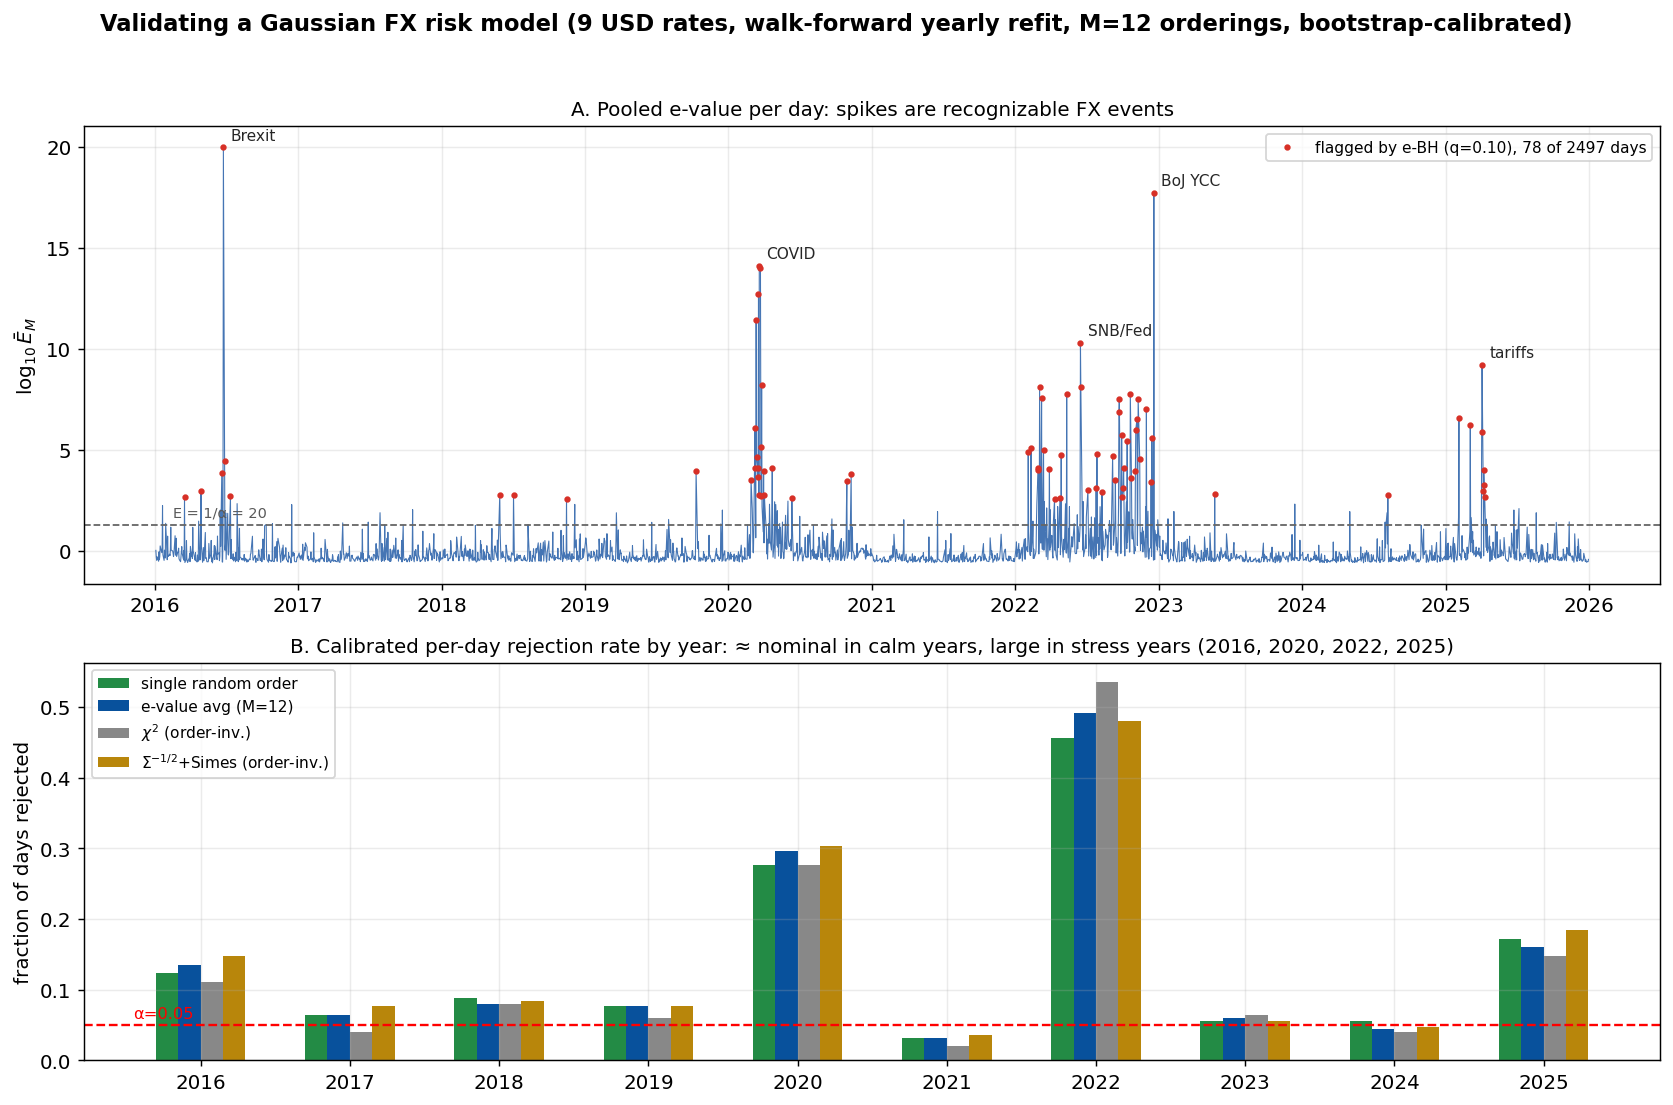
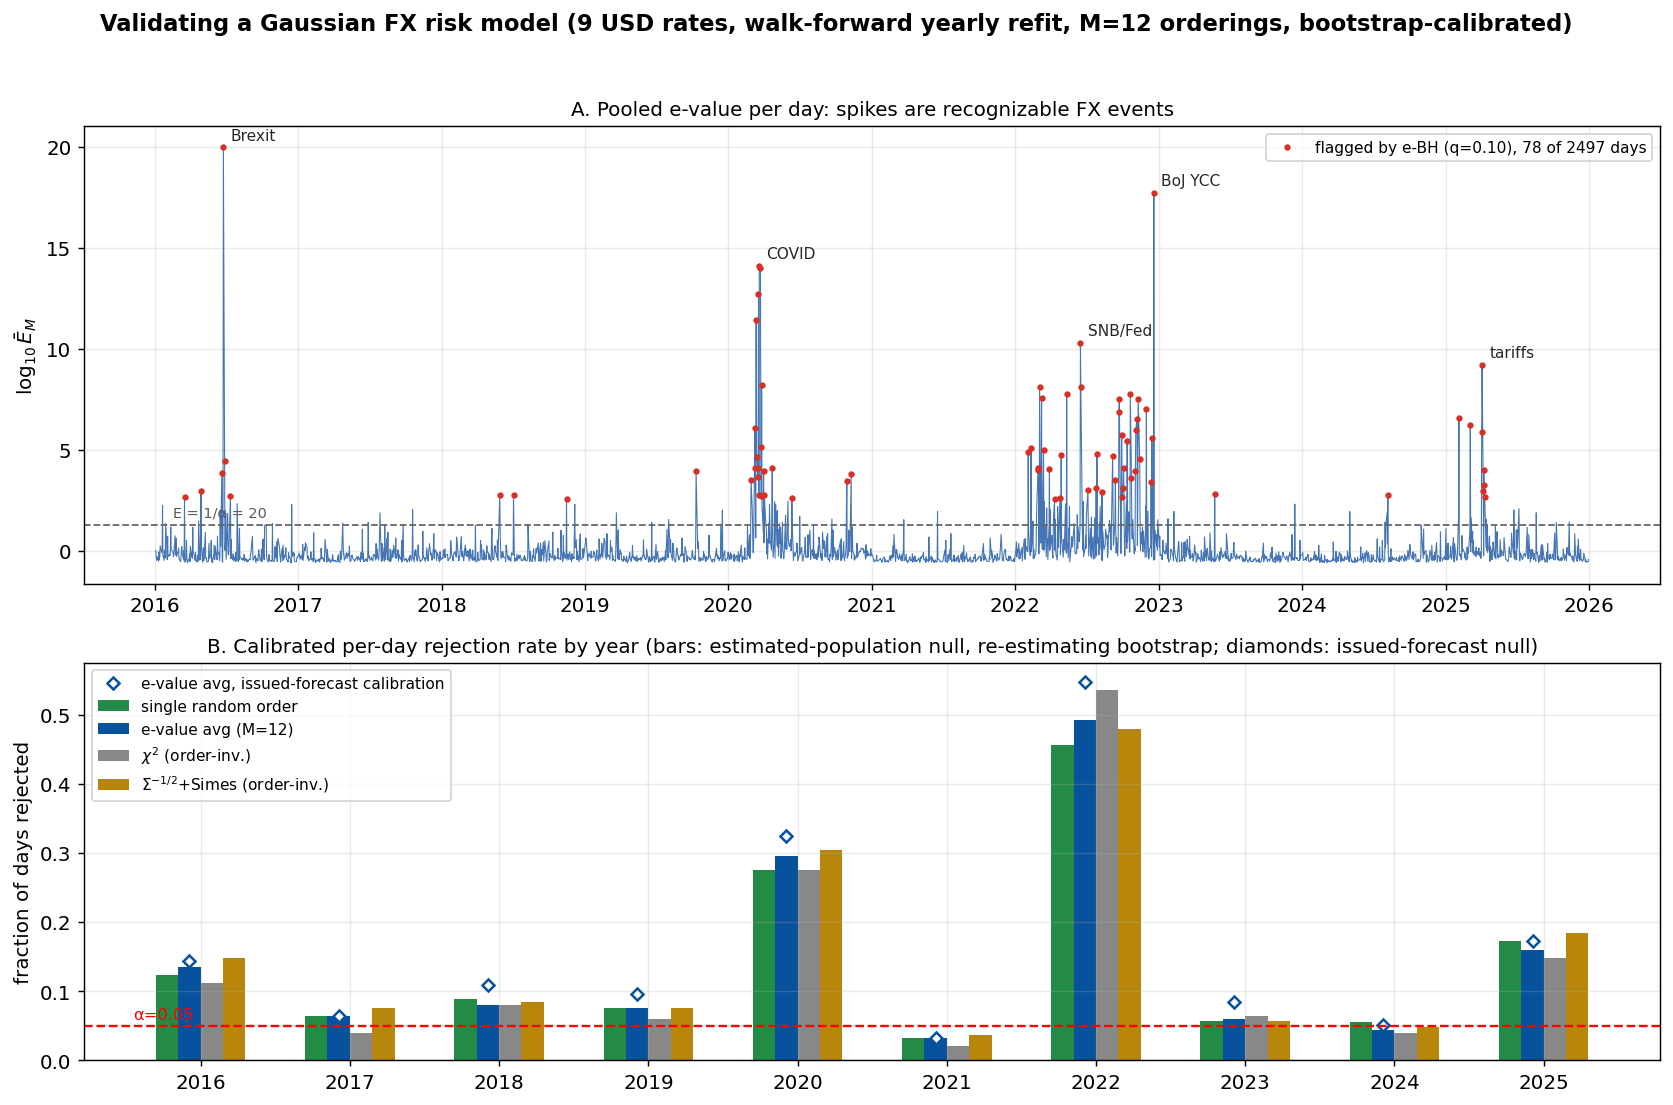
astra's fix

diff --git a/code/app_fx_risk_model.py b/code/app_fx_risk_model.py
@@ -23,6 +23,16 @@ v2 (review credit: GPT Astra):
     as in the real pipeline (previously only the covariance was re-estimated);
   - the day-level paired-gap standard error uses a Newey-West (Bartlett) estimator to account
     for serial dependence.
+v3 (review credit: GPT Astra, round 2):
+  - TWO calibration targets are now run and stored separately, because they are different nulls
+    and need different simulations:
+      (a) ESTIMATED-POPULATION null (rows, gap_*): the re-estimating bootstrap above, i.e.
+          Procedure 1 with mean and covariance re-estimated inside every replicate;
+      (b) ISSUED-FORECAST null H0,t: X_t | F_{t-1} ~ N(mu_hat_t, Sigma_hat_t) (rows_fc, gap_fc_*):
+          the parameters are FIXED at the issued values, so the calibration vectors are drawn
+          from N(mu_hat, Sigma_hat) and evaluated with the same fixed whitening as the observed
+          days (exact Monte-Carlo null; no re-estimation).
+  - merger summaries used for calibration are uncapped (mean and min of per-order p-values).
 """
 import glob
 import numpy as np
@@ -30,6 +40,8 @@ from scipy import stats
 from scipy.special import logsumexp
 
 rng = np.random.default_rng(20260715)
+rng_fc = np.random.default_rng(20260924)   # separate stream for the forecast-null calibration (v3),
+                                            # so the estimated-population run reproduces the earlier one
 ALPHA, Q_EBH = 0.05, 0.10
 M, B = 12, 999
 TAUS = np.array([1.0, 2.0, 3.0])
@@ -76,8 +88,8 @@ def simes2(Z):
     return (n * np.sort(p2, axis=-1) / idx).min(-1)
 
 
-def rand_perms(k, m):
-    return np.argsort(rng.random((k, m, n)), axis=-1)
+def rand_perms(k, m, gen=None):
+    return np.argsort((gen or rng).random((k, m, n)), axis=-1)
 
 
 def order_stats(Z):
@@ -86,15 +98,15 @@ def order_stats(Z):
     terms = np.stack([-0.5 * t * t + logcosh(t * Z) for t in TAUS])
     logE = logsumexp(terms, axis=(0, -1)) - (np.log(n) + np.log(len(TAUS)))
     return dict(single=Ps[..., 0],
-                pmerge=np.minimum(2 * Ps.mean(-1), 1.0),
-                bonf=np.minimum(M * Ps.min(-1), 1.0),
+                pmerge=2 * Ps.mean(-1),      # uncapped merger summaries (v3): the capped
+                bonf=M * Ps.min(-1),         # p-values min{1,.} are for reporting only
                 eavg=logsumexp(logE, -1) - np.log(M))          # log e-value
 
 
-def all_stats(V, Linv, Sinv, W):
+def all_stats(V, Linv, Sinv, W, gen=None):
     """V: (k, n) centered vectors; Linv: (n,n) chol-inverse of Sigma_hat (identity ordering);
     fresh M orderings per row. Exchangeability does NOT hold here, so permute Sigma too."""
-    P = rand_perms(V.shape[0], M)                              # (k,M,n)
+    P = rand_perms(V.shape[0], M, gen)                         # (k,M,n)
     st = {}
     # per-row, per-ordering cholesky of permuted Sigma_hat: batch over unique perms is
     # overkill at k<=260, M=12 -> loop days in chunks
@@ -135,6 +147,15 @@ def calibrate(Shat, Ntr):
     return {k: np.sort(v) for k, v in boot.items()}
 
 
+def calibrate_forecast(Shat, Linv, Sinv, W):
+    """Issued-forecast null: parameters fixed at the issued (mu_hat, Sigma_hat); the calibration
+    vectors are exact draws from the null, centred exactly, and whitened by the SAME fixed
+    Sigma_hat as the observed days. Returns sorted statistics."""
+    Vc = rng_fc.standard_normal((B, n)) @ np.linalg.cholesky(Shat).T
+    boot = all_stats(Vc, Linv, Sinv, W, gen=rng_fc)
+    return {k: np.sort(v) for k, v in boot.items()}
+
+
 def mc_low(sorted_boot, obs):
     return 1 + np.searchsorted(sorted_boot, obs, side='right') <= ALPHA * (B + 1)
 
@@ -146,6 +167,7 @@ def mc_high(sorted_boot, obs):
 # ---------------- run per year ----------------
 KEYS = ["single", "pmerge", "bonf", "eavg", "chi2", "sym"]
 rows, gaps, logE_all, dates_all, rej_flags = [], [], [], [], []
+rows_fc, gaps_fc = [], []                            # issued-forecast calibration
 for y in range(2016, 2026):
     tr = ret[years == y - 1]; te = ret[years == y]
     dte = [t for t, yy in zip(rdates, years) if yy == y]
@@ -164,6 +186,15 @@ for y in range(2016, 2026):
     logE_all.append(st["eavg"]); dates_all.extend(dte); rej_flags.append(rej["eavg"])
     print("  %d (T=%d): " % (y, len(te)) +
           "  ".join("%s=%.3f" % (k, rej[k].mean()) for k in KEYS))
+    # ---- issued-forecast null: fixed parameters, exact Monte-Carlo calibration
+    bfc = calibrate_forecast(Shat, Linv, Sinv, W)
+    rfc = {k: mc_low(bfc[k], st[k]) for k in ("single", "pmerge", "bonf", "sym")}
+    rfc["eavg"] = mc_high(bfc["eavg"], st["eavg"])
+    rfc["chi2"] = mc_high(bfc["chi2"], st["chi2"])
+    rows_fc.append((y, len(te)) + tuple(float(rfc[k].mean()) for k in KEYS))
+    gaps_fc.append(rfc["eavg"].astype(float) - rfc["single"].astype(float))
+    print("        forecast-null calibration: " +
+          "  ".join("%s=%.3f" % (k, rfc[k].mean()) for k in KEYS))
 
 gap = np.concatenate(gaps)
 
@@ -185,6 +216,8 @@ se_iid = gap.std(ddof=1) / np.sqrt(len(gap))
 se_nw = nw_se(gap)
 print("\npaired day-level gap (e-avg - single): %.4f +/- %.4f NW (iid se %.4f; T=%d days, t=%.1f)"
       % (gap.mean(), se_nw, se_iid, len(gap), gap.mean() / se_nw))
+gap_fc = np.concatenate(gaps_fc); se_fc = nw_se(gap_fc)
+print("  under the issued-forecast calibration: %.4f +/- %.4f NW" % (gap_fc.mean(), se_fc))
 
 # ---------------- naive e-BH across all days ----------------
 logE = np.concatenate(logE_all); E = np.exp(logE); N = len(E)
@@ -200,6 +233,7 @@ for i in top:
 
 np.savez("results_fx_application.npz",
          rows=np.array(rows), keys=np.array(KEYS),
+         rows_fc=np.array(rows_fc), gap_fc_mean=gap_fc.mean(), gap_fc_se=se_fc,
          gap_mean=gap.mean(), gap_se=se_nw, gap_se_iid=se_iid,
          logE=logE, dates=np.array(dates_all),
          rej_eavg=np.concatenate(rej_flags),

diff --git a/code/check_quoted_numbers.py b/code/check_quoted_numbers.py
@@ -169,6 +169,13 @@ check("Fisher remark: sparse, Simes minus Fisher combiner, min (0.04)", min(sp),
 check("Fisher remark: sparse, Simes minus Fisher combiner, max (0.26)", max(sp), 0.26, 2)
 check("Fisher remark: dense known, p-merge(Fisher)", a["cpw_known_pmerge_f"][D], 0.623)
 check("Fisher remark: dense known, p-merge(Simes)", a["cpw_known_pmerge"][D], 0.577)
+check("Fisher remark: dense 4n, p-merge(Fisher)", a["cpw_pmerge_f"][D], 0.502)
+check("Fisher remark: dense 4n, p-merge(Simes)", a["cpw_pmerge"][D], 0.415)
+check("Fisher remark: dense 4n, bonf(Fisher)", a["cpw_bonf_f"][D], 0.498)
+check("Fisher remark: dense 4n, bonf(Simes)", a["cpw_bonf"][D], 0.421)
+sp_ok = all(d[pre + k][i] > d[pre + k + "_f"][i] for d, cfg in ((a, [0]), (r, [0, 1, 2]), (n, [0, 1, 2])) for pre in ("cpw_", "cpw_known_") for i in cfg for k in ("pmerge", "bonf"))
+fails += (not sp_ok)
+print("  %-62s %s" % ("§3.2: Simes base wins every sparse config, both training sizes", "PASS" if sp_ok else "FAIL"))
 ok = a["cpw_known_pmerge_f"][D] > a["cpw_known_pmerge"][D] and a["cpw_known_bonf"][D] > a["cpw_known_bonf_f"][D]
 fails += (not ok)
 print("  %-62s %s" % ("Fisher remark: dense known, only p-merge(Fisher) leads its Simes twin", "PASS" if ok else "FAIL"))
@@ -213,6 +220,41 @@ ok = 4.5e12 <= min(covid.values()) and max(covid.values()) < 2e14   # 5.0e12 pri
 fails += (not ok)
 print("  %-62s %s %s" % ("COVID days 2020-03-18/20/23 in 5e12..1e14", {k: "%.1e" % v for k, v in covid.items()}, "PASS" if ok else "FAIL"))
 intex("2020-03-18/20/23 ($5\\times10^{12}$--$10^{14}$)")
+
+# ---------------------------------------------------------------- §8 issued-forecast calibration (24 Sep)
+print("§8 issued-forecast calibration (rows_fc)")
+rfc = f["rows_fc"]
+yfc = lambda y: rfc[rfc[:, 0] == y][0]
+for y, q in [(2017, 0.06), (2021, 0.03), (2023, 0.08), (2024, 0.05)]:
+    check("forecast-null eavg rate %d (calm)" % y, yfc(y)[col("eavg")], q, 2)
+for y, q in [(2020, 0.32), (2022, 0.55), (2025, 0.17), (2016, 0.14)]:
+    check("forecast-null eavg rate %d (stress)" % y, yfc(y)[col("eavg")], q, 2)
+fc_ok = f["rows_fc"][:, col("eavg")].min() >= 0 and bool(np.all(f["rows_fc"][:, col("eavg")] >= f["rows"][:, col("eavg")] - 1e-12))
+fails += (not fc_ok)
+print("  %-62s %s" % ("§8: forecast-null eavg rate >= estimated-population rate every year", "PASS" if fc_ok else "FAIL"))
+check("forecast-null day-level gap", float(f["gap_fc_mean"]), 0.004, 3)
+check("forecast-null gap NW se", float(f["gap_fc_se"]), 0.004, 3)
+intex("$0.06$, $0.03$, $0.08$, $0.05$ under the issued-forecast calibration")
+intex("$32\\%$, $55\\%$, $17\\%$ and $14\\%$")
+
+# ---------------------------------------------------------------- §7.2 threshold sweep (results_threshold_dependence.npz)
+t = np.load("results_threshold_dependence.npz", allow_pickle=True)
+print("§7.2 threshold sweep (results_threshold_dependence.npz; alphas %s)" % list(t["alphas"]))
+check("fig2 case: p-merge at 0.05", t["fig2_pmerge"][0], 0.510)
+check("fig2 case: bonf at 0.05", t["fig2_bonf"][0], 0.487)
+check("fig2 case: p-merge at 0.0005", t["fig2_pmerge"][-1], 0.045)
+check("fig2 case: bonf at 0.0005", t["fig2_bonf"][-1], 0.067)
+ok = (1 - t["fig2_pmerge"][-1] / t["fig2_pmerge"][0]) > 0.9 and abs((1 - t["fig2_bonf"][-1] / t["fig2_bonf"][0]) - 6 / 7) < 0.02
+fails += (not ok)
+print("  %-62s %.3f, %.3f %s" % ("fig2 case: losses > 9/10 and ~6/7", 1 - t["fig2_pmerge"][-1] / t["fig2_pmerge"][0], 1 - t["fig2_bonf"][-1] / t["fig2_bonf"][0], "PASS" if ok else "FAIL"))
+check("dense case: p-merge 0.05", t["dense_pmerge"][0], 0.757)
+check("dense case: p-merge 0.0005", t["dense_pmerge"][-1], 0.095)
+check("dense case: bonf 0.05", t["dense_bonf"][0], 0.892)
+check("dense case: bonf 0.0005", t["dense_bonf"][-1], 0.397)
+check("dense case: gap at 0.05", t["dense_bonf"][0] - t["dense_pmerge"][0], 0.135)
+check("dense case: gap at 0.0005", t["dense_bonf"][-1] - t["dense_pmerge"][-1], 0.302)
+intex("($0.510$ against $0.487$)")
+intex("($0.045$ against $0.067$)")
 
 print("\nRESULT: %d failure(s)" % fails)
 sys.exit(1 if fails else 0)

diff --git a/code/exp_departure_shape.py b/code/exp_departure_shape.py
@@ -10,6 +10,11 @@ CORRECTED VERSION (v3):
  - v3: decisions by RANK-BASED Monte-Carlo p-values, p = (1+#{T*_b at least as extreme})/(B+1),
    reject iff p <= alpha. Interpolated np.quantile thresholds are anti-conservative at finite B:
    expected rejection ((B-1)a+1)/(B+1) = 0.0545 at B=199, a=0.05. (Review credit: GPT Astra.)
+ - v4: calibration statistics are the UNCAPPED merger summaries mean_m P_m and M*min_m P_m
+ (the capped p-values min{1,.} are monotone in these below the cap and identical for every
+ decision here; capping only matters when it creates ties at 1, i.e. when more than a 1-alpha
+ fraction of null draws hit the cap, which happens at large M under weak dependence).
+ Naive decisions are unchanged: min{1,x} < alpha iff x < alpha.
  - v3: adds 'e1', the CALIBRATED SINGLE-ORDERING mixture e-value, so that pooled-vs-single for
    the e-value path compares like with like (same base statistic, aggregation isolated).
 
@@ -68,13 +73,13 @@ def order_methods(Z, n):
     logE = logsumexp(terms, axis=(0, -1)) - (np.log(n) + np.log(len(TAUS)))
     pfish = stats.chi2.sf(-2.0 * np.log(np.maximum(p2, 1e-300)).sum(-1), 2 * n)
     return dict(single=Psimes[..., 0],
-                pmerge=np.minimum(2 * Psimes.mean(-1), 1.0),
-                bonf=np.minimum(M * Psimes.min(-1), 1.0),
+                pmerge=2 * Psimes.mean(-1),          # uncapped (v4); min{1,.} only for reporting
+                bonf=M * Psimes.min(-1),
                 eavg=np.exp(logsumexp(logE, -1) - np.log(M)),
                 e1=np.exp(logE[..., 0]),
                 fisher=pfish[..., 0],
-                pmerge_f=np.minimum(2 * pfish.mean(-1), 1.0),
-                bonf_f=np.minimum(M * pfish.min(-1), 1.0))
+                pmerge_f=2 * pfish.mean(-1),
+                bonf_f=M * pfish.min(-1))
 
 
 def draw(mu, S, k, rng): return mu + rng.standard_normal((k, S.shape[0])) @ np.linalg.cholesky(S).T

diff --git a/code/exp_training_size.py b/code/exp_training_size.py
@@ -3,6 +3,12 @@ APPLES-TO-APPLES under estimated F: parametric-bootstrap-calibrate every method 
 size alpha, then compare POWER.  The bootstrap re-estimates Sigma INSIDE each replicate
 (double bootstrap) so the calibration absorbs the same estimation noise the real test has.
 
+v3: calibration statistics are the UNCAPPED merger summaries mean_m P_m and M*min_m P_m
+ (the capped p-values min{1,.} are monotone in these below the cap and identical for every
+ decision here; capping only matters when it creates ties at 1, i.e. when more than a 1-alpha
+ fraction of null draws hit the cap, which happens at large M under weak dependence).
+ Naive decisions are unchanged: min{1,x} < alpha iff x < alpha.
+
 CORRECTED VERSION (v2):
  - fresh random orderings are drawn in EVERY realization, so the 'single' baseline
    estimates the EXPECTED power of an arbitrarily chosen ordering (the paper's
@@ -74,12 +80,12 @@ def order_methods(Z):                           # Z (...,M,n) -> dict of (...,) 
     M = Psimes.shape[-1]
     pfish = stats.chi2.sf(-2.0 * np.log(np.maximum(p2, 1e-300)).sum(-1), 2 * N)  # (...,M)
     return dict(single=Psimes[..., 0],
-                pmerge=np.minimum(2 * Psimes.mean(-1), 1.0),
-                bonf=np.minimum(M * Psimes.min(-1), 1.0),
+                pmerge=2 * Psimes.mean(-1),          # uncapped (v3); min{1,.} only for reporting
+                bonf=M * Psimes.min(-1),
                 eavg=np.exp(logsumexp(logE, -1) - np.log(M)),
                 fisher=pfish[..., 0],
-                pmerge_f=np.minimum(2 * pfish.mean(-1), 1.0),
-                bonf_f=np.minimum(M * pfish.min(-1), 1.0))
+                pmerge_f=2 * pfish.mean(-1),
+                bonf_f=M * pfish.min(-1))
 
 
 PKEYS = ["single", "pmerge", "bonf", "sym", "fisher", "pmerge_f", "bonf_f"]  # small = extreme

diff --git a/code/exp_calibration_pipeline.py b/code/exp_calibration_pipeline.py
@@ -4,6 +4,11 @@ n=20, rho=0.5 equicorrelated, k=2 same-sign shifted coordinates, ncp=12,
 N_tr in {4n, 8n, known}. For every method: naive size, calibrated size,
 calibrated power. Pooled p-merge dominates all order-invariant references here.
 
+v3: calibration statistics are the UNCAPPED merger summaries mean_m P_m and M*min_m P_m
+ (the capped p-values min{1,.} are monotone in these below the cap and identical for every
+ decision here; capping only matters when it creates ties at 1, i.e. when more than a 1-alpha
+ fraction of null draws hit the cap, which happens at large M under weak dependence).
+ Naive decisions are unchanged: min{1,x} < alpha iff x < alpha.
 v2: rank-based Monte-Carlo p-value decisions, p = (1+#{T* at least as extreme})/(B+1) <= alpha
     (interpolated quantiles are anti-conservative at finite B: ((B-1)a+1)/(B+1) = 0.0545 at
     B=199); adds 'e1', the calibrated single-ordering mixture e-value, to isolate aggregation
@@ -46,8 +51,8 @@ def om(Z):
     terms = np.stack([-0.5 * t * t + logcosh(t * Z) for t in TAUS])
     logE = logsumexp(terms, axis=(0, -1)) - (np.log(N) + np.log(len(TAUS)))
     pf = stats.chi2.sf(-2 * np.log(np.maximum(p2, 1e-300)).sum(-1), 2 * N)
-    return dict(single=Ps[..., 0], pmerge=np.minimum(2 * Ps.mean(-1), 1.0),
-                bonf=np.minimum(Mn * Ps.min(-1), 1.0),
+    return dict(single=Ps[..., 0], pmerge=2 * Ps.mean(-1),   # uncapped (v3)
+                bonf=Mn * Ps.min(-1),
                 eavg=np.exp(logsumexp(logE, -1) - np.log(Mn)),
                 e1=np.exp(logE[..., 0]), fisher=pf[..., 0])
 

diff --git a/code/exp_number_of_orderings.py b/code/exp_number_of_orderings.py
@@ -64,9 +64,14 @@ for rho in (0.6, 0.0):
     Xa = mu + rng.standard_normal((REPS, N)) @ L.T
     Pn, lEn = per_order(Xn, perms, Linv)
     Pa, lEa = per_order(Xa, perms, Linv)
-    # NOTE: calibrate on the UNCAPPED statistics (mean p, min p, sum log e). Capping at 1
-    # puts an atom at the boundary that destroys the null quantile once M is large; the
-    # uncapped forms are monotone equivalents, so calibrated power is unaffected.
+    # NOTE: calibrate on the UNCAPPED statistics (mean p, min p, sum log e). The capped
+    # nominal p-values min{1, M min p} and min{1, 2 mean p} put an atom at 1; under a
+    # nonrandomized rank rule an observation on the atom can never reject, so the calibrated
+    # test's rejection probability is bounded by the null mass below the cap once that mass
+    # falls under alpha (at rho=0, M=128: P(128 P < 1) = 1/128, so the capped Bonferroni test
+    # could reject at most 0.8% of the time). The uncapped summaries
+    # are the statistics Procedure 1 is applied to throughout the paper; capping is reserved
+    # for reporting a nominal merged p-value.
     res = {k: [] for k in ("pmerge", "bonf", "eavg")}
     for M in MGRID:
         res["pmerge"].append(cal_power(Pn[:, :M].mean(1), Pa[:, :M].mean(1)))

diff --git a/code/fig5_fx_application.py b/code/fig5_fx_application.py
@@ -44,11 +44,17 @@ lab = {"single": "single random order", "eavg": "e-value avg (M=12)",
 x = np.arange(len(yy))
 for j, k in enumerate(sel):
     B.bar(x + (j - 1.5) * w, rows[:, 2 + keys.index(k)], w, color=col[k], label=lab[k])
+# issued-forecast null (parameters fixed at the issued values): e-value average, as markers
+if "rows_fc" in d.files:
+    rfc = d["rows_fc"]
+    B.plot(x + (sel.index("eavg") - 1.5) * w, rfc[:, 2 + keys.index("eavg")], "D", ms=5,
+           mfc="white", mec="#08519c", mew=1.4,
+           label="e-value avg, issued-forecast calibration")
 B.axhline(0.05, color="red", lw=1.3, ls="--")
 B.text(-0.45, 0.06, "α=0.05", color="red", fontsize=9)
 B.set_xticks(x); B.set_xticklabels(yy)
-B.set_title("B. Calibrated per-day rejection rate by year: ≈ nominal in calm years, "
-            "large in stress years (2016, 2020, 2022, 2025)")
+B.set_title("B. Calibrated per-day rejection rate by year (bars: estimated-population null, "
+            "re-estimating bootstrap; diamonds: issued-forecast null)")
 B.set_ylabel("fraction of days rejected"); B.legend(fontsize=8.5, loc="upper left")
 
 fig.tight_layout(rect=[0, 0, 1, 0.965])

diff --git a/code/exp_sparsity_path.py b/code/exp_sparsity_path.py
@@ -4,6 +4,8 @@ energy matched at ncp=12 for every k, known F, exact MC calibration.
 Shows where pooling beats the symmetric-root test: sym is competitive only at k=1 and
 degrades monotonically toward its dense collapse, while pooled e-avg dominates at every k.
 chi2 is constant in k -- the empirical face of orbit-flatness (Prop. 1).
+Calibration uses the uncapped merger summaries (mean and min of the per-order p-values); the
+capped nominal p-values would create ties at 1 under a rank rule when the cap binds.
 """
 import numpy as np
 from scipy import stats
@@ -37,8 +39,8 @@ def stats_all(X):
     Ps = simes2(Z)
     terms = np.stack([-0.5 * t * t + logcosh(t * Z) for t in TAUS])
     logE = logsumexp(terms, axis=(0, -1)) - (np.log(N) + np.log(len(TAUS)))
-    return dict(single=Ps[..., 0], pmerge=np.minimum(2 * Ps.mean(-1), 1.0),
-                bonf=np.minimum(M * Ps.min(-1), 1.0),
+    return dict(single=Ps[..., 0], pmerge=2 * Ps.mean(-1),   # uncapped summaries for calibration
+                bonf=M * Ps.min(-1),
                 eavg=logsumexp(logE, -1) - np.log(M))
 
 

diff --git a/README.md b/README.md
@@ -99,7 +99,13 @@ figures regenerate byte-for-byte from the archives in `results/`.
   aggregation from the choice of base statistic, whereas `eavg − single` also changes the base
   statistic (Simes p-value to mixture e-value). In the FX application the bootstrap re-estimates the
   mean as well as the covariance inside each replicate, and the day-level gap standard error is
-  Newey–West.
+  Newey–West, and two calibrations are stored side by side: the re-estimating bootstrap for the
+  estimated-population null (`rows`, `gap_*`) and exact simulation from the issued forecast with
+  fixed parameters (`rows_fc`, `gap_fc_*`), each on its own random stream.
+- **Calibration acts on uncapped merger summaries.** The single-test scripts and the application
+  hand Procedure 1 the uncapped `mean_m P_m` and `M·min_m P_m` (the capped nominal p-values put an
+  atom at 1 that a rank rule cannot break; at M=12 this never binds, but at large M under weak
+  dependence it does — see the note in `exp_number_of_orderings.py`).
 - **In the multiplicity layer, the bootstrap replicate count should satisfy $B > N/q$.** A bootstrap
   $p$-value cannot fall below $1/(B+1)$, while Benjamini–Hochberg's smallest threshold is $q/N$;
   with too small a $B$ the attainable power of every method is capped by calibration granularity
